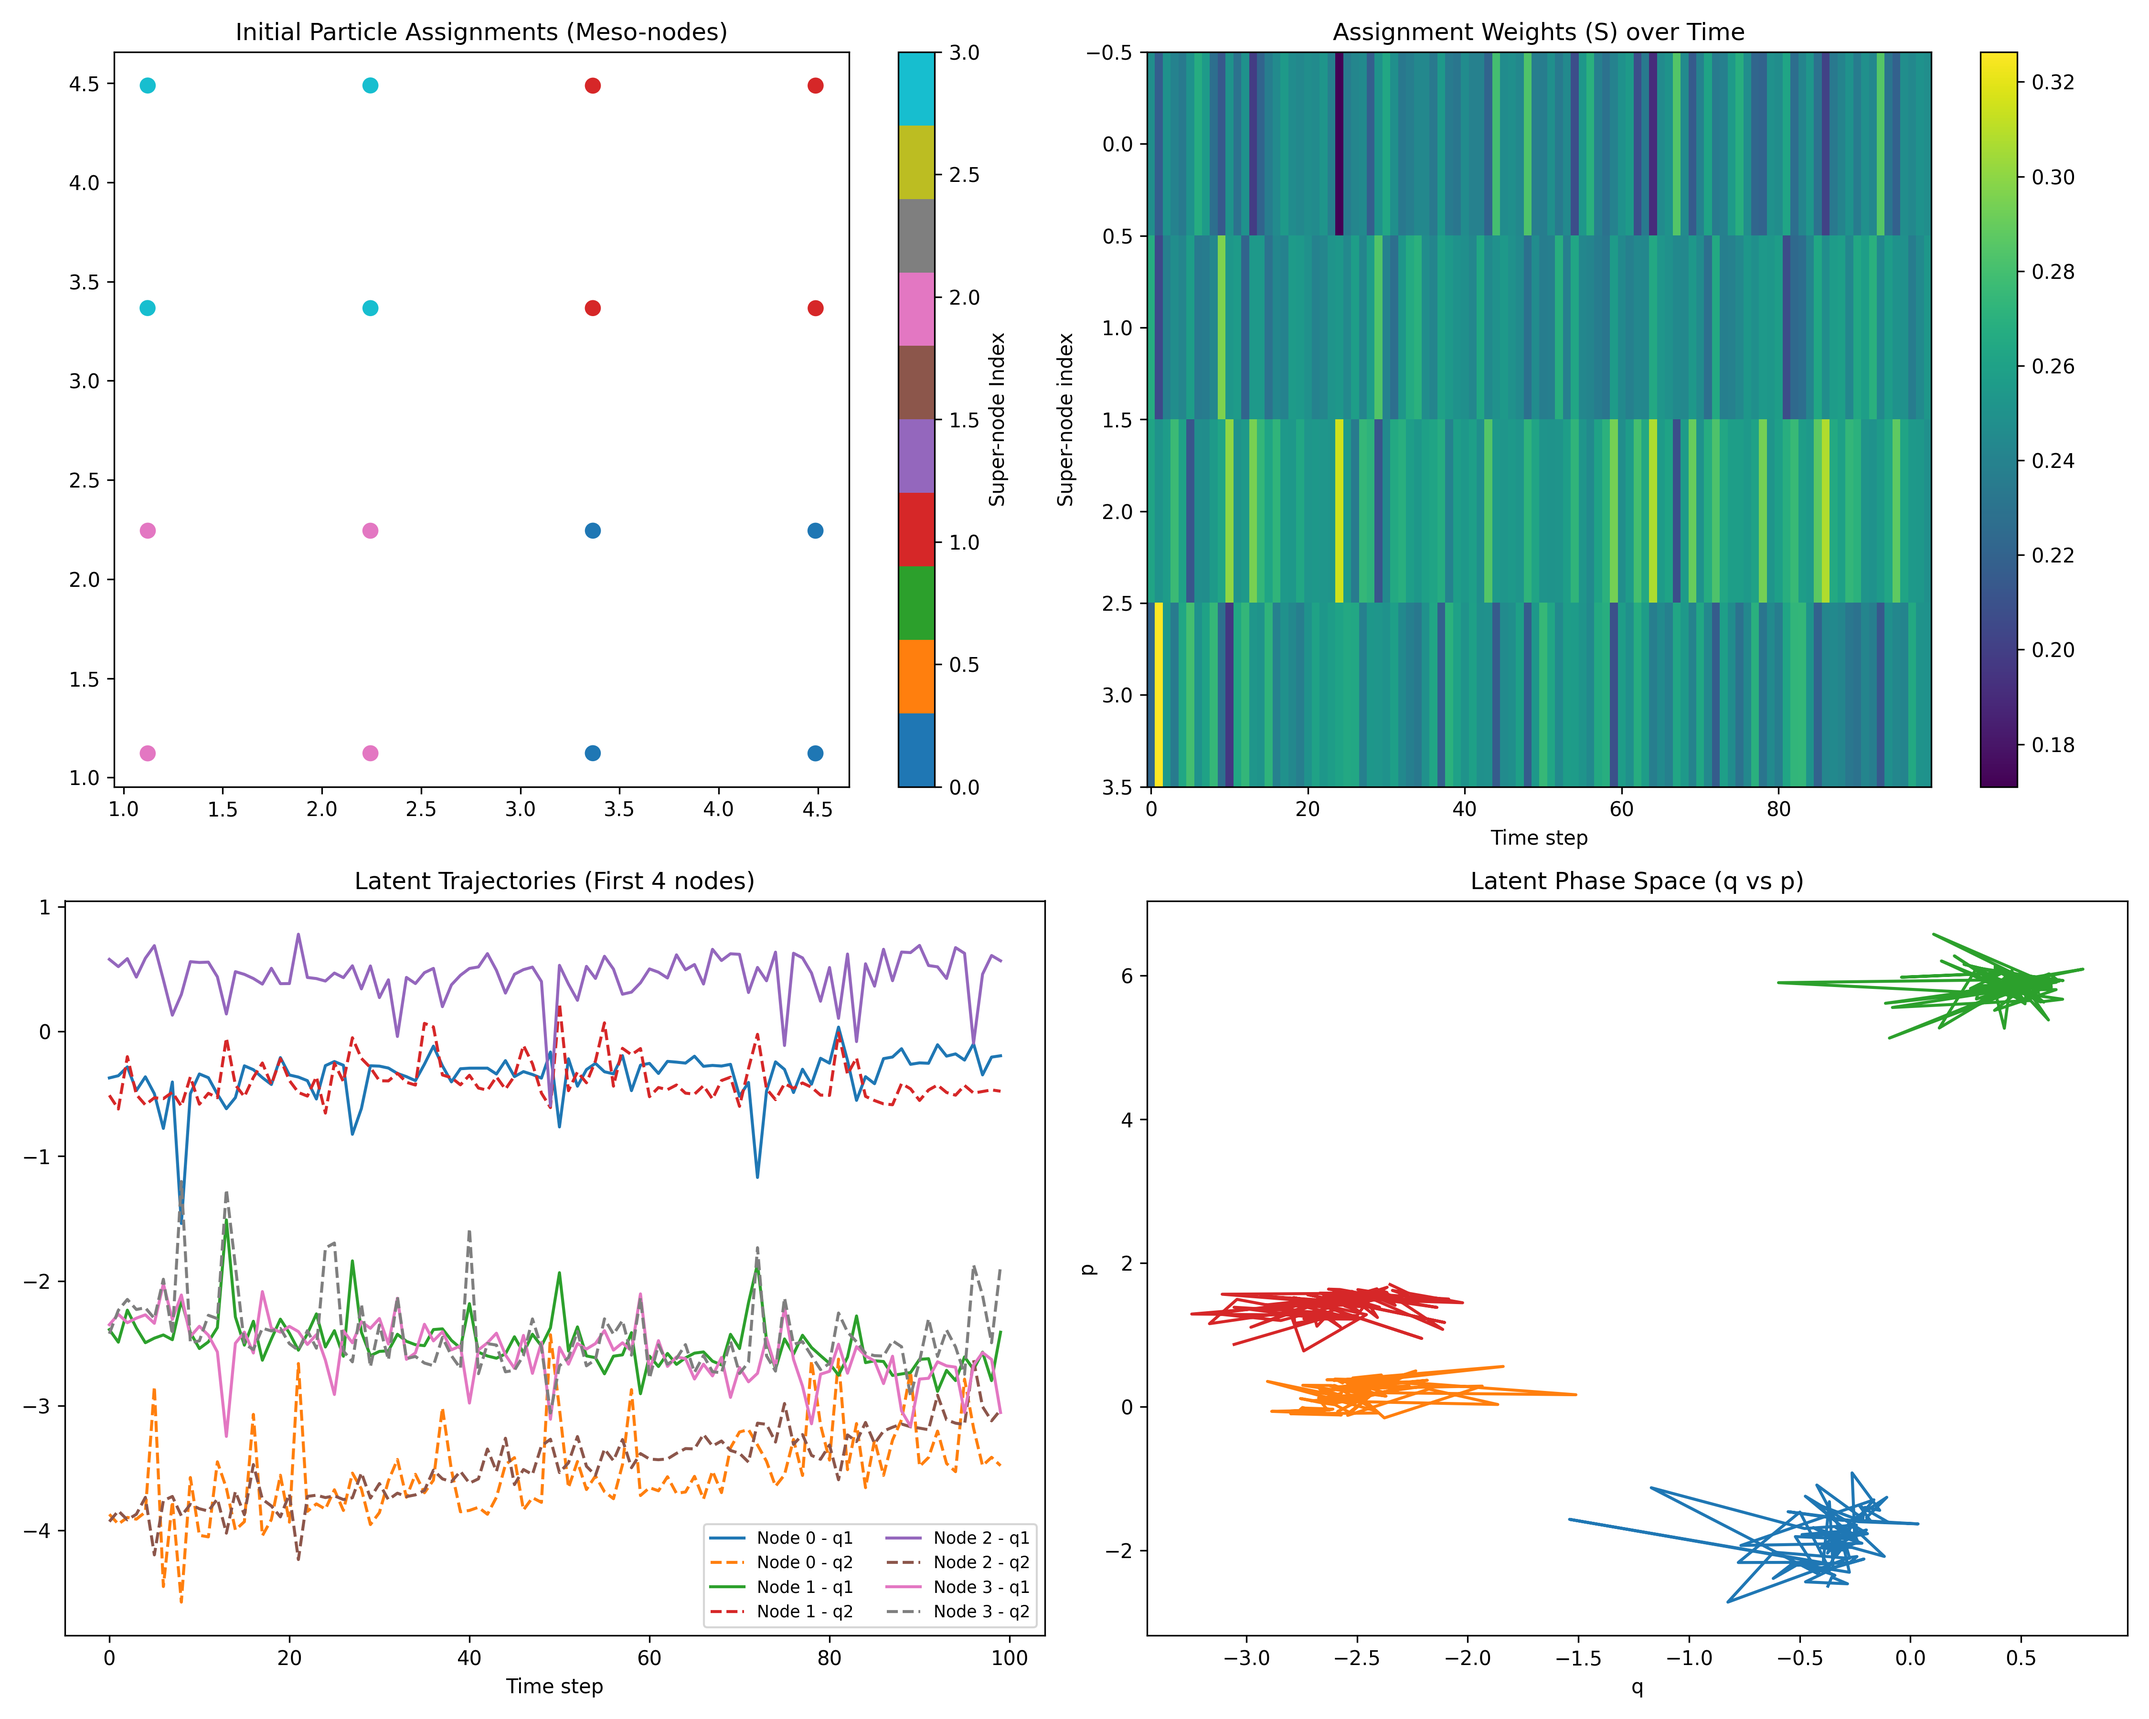
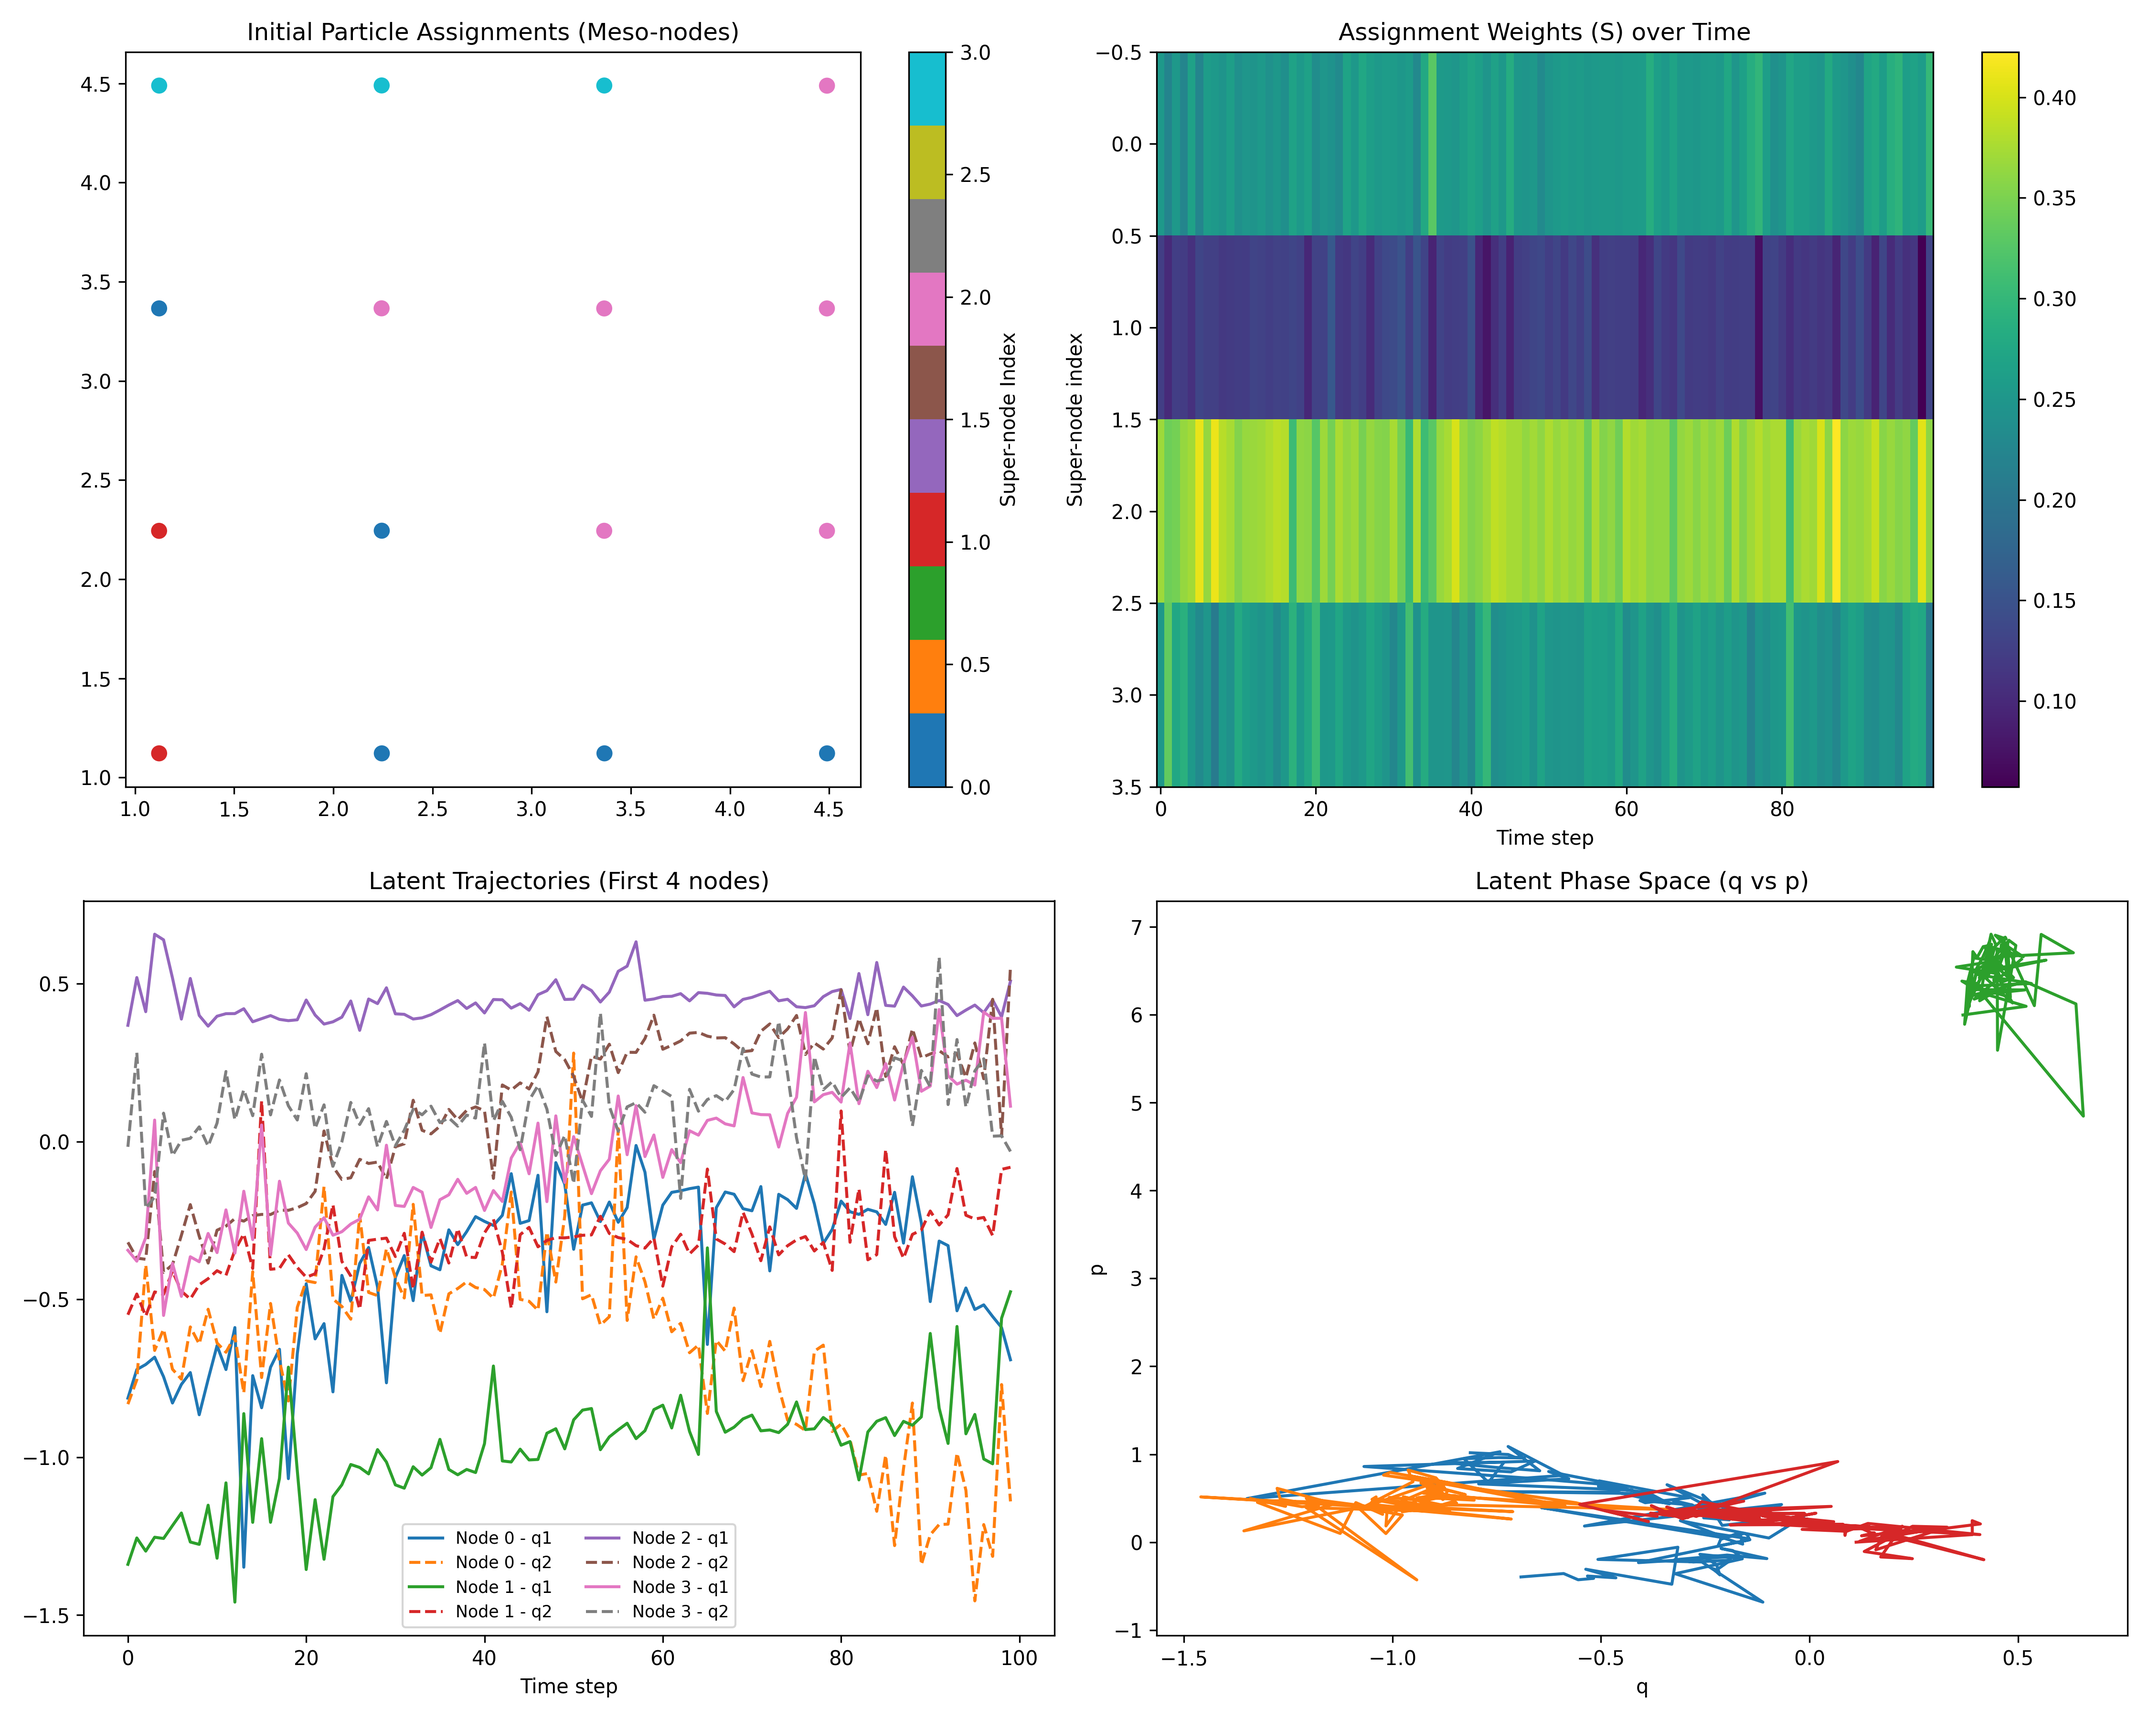
updated

diff --git a/engine.py b/engine.py
@@ -524,7 +524,8 @@ class Trainer:
 
         for t in range(0, seq_len, 2):
             batch_t = Batch.from_data_list([data_list[t]]).to(self.device)
-            z_t_target, s_t, losses_t, mu_t = self.model.encode(batch_t.x, batch_t.edge_index, batch_t.batch, tau=tau, hard=hard)
+            # Pass s_prev for assignment persistence
+            z_t_target, s_t, losses_t, mu_t = self.model.encode(batch_t.x, batch_t.edge_index, batch_t.batch, tau=tau, hard=hard, prev_assignments=s_prev)
             z_t_target = torch.nan_to_num(z_t_target)
             
             # Use normalized targets for stability
@@ -550,10 +551,10 @@ class Trainer:
             mu_t_norm = mu_t 
             d_align = min(self.model.encoder.latent_dim // 2 if self.model.hamiltonian else 2, 2)
             
-            # Soft-start for alignment loss: keep at 0 for first 100 epochs, then anneal in
+            # Soft-start for alignment loss: keep at 0 for first 20 epochs, then anneal in
             align_weight = 0.0
-            if epoch > 100:
-                align_weight = min(1.0, (epoch - 100) / self.align_anneal_epochs)
+            if epoch > 20:
+                align_weight = min(1.0, (epoch - 20) / self.align_anneal_epochs)
             
             # Use learnable scale in log-space for alignment
             loss_align += 2.0 * align_weight * self.criterion(z_preds[t, :, :, :d_align] * torch.exp(self.log_align_scale), mu_t_norm[:, :, :d_align])
@@ -592,7 +593,7 @@ class Trainer:
         discovery_loss += (weights['sym'] * (self.symbolic_weight - 1.0) * torch.clamp(loss_sym.to(torch.float32), 0, 100)) # Adjust sym weight
         discovery_loss += 1e-4 * torch.clamp(loss_curv.to(torch.float32), 0, 100)
         
-        loss = discovery_loss + (weights['l2'] * 1e-4 * torch.clamp(loss_l2, 0, 100) + lvars[4]) + (weights['lvr'] * 1e-4 * torch.clamp(loss_lvr, 0, 100) + lvars[5])
+        loss = discovery_loss + (weights['l2'] * 1e-4 * torch.clamp(loss_l2, 0, 100) + lvars[4]) + (weights['lvr'] * 1e-2 * torch.clamp(loss_lvr, 0, 100) + lvars[5])
         if compute_consistency: loss += (weights['cons'] * torch.clamp(loss_cons.to(torch.float32), 0, 100) + lvars[1])
         
         loss = torch.clamp(loss + 0.1 * torch.sum(lvars**2), 0, 1e4)

diff --git a/symbolic.py b/symbolic.py
@@ -188,11 +188,34 @@ class SymbolicDistiller:
         X_sel = X[:, mask]
         
         lasso = LassoCV(cv=5).fit(X_sel, y)
-        if lasso.score(X_sel, y) > 0.999:
-            return OptimizedExpressionProgram(str(sp.simplify(sum(c*sp.Symbol(f'X{np.where(mask)[0][j]}') for j, c in enumerate(lasso.coef_)) + lasso.intercept_))), mask, lasso.score(X_sel, y)
+        lasso_score = lasso.score(X_sel, y)
+        
+        # PHYSICALITY GATE: Check if Lasso found a simple identity
+        is_identity = False
+        if lasso_score > 0:
+            coeffs = np.abs(lasso.coef_)
+            if np.sum(coeffs > 1e-3) == 1 and np.max(coeffs) > 0.9:
+                is_identity = True
+        
+        if lasso_score > 0.999:
+            return OptimizedExpressionProgram(str(sp.simplify(sum(c*sp.Symbol(f'X{np.where(mask)[0][j]}') for j, c in enumerate(lasso.coef_)) + lasso.intercept_))), mask, lasso_score
             
+        # Initial GP search
         est = self._get_regressor(self.populations, self.generations).fit(X_sel, y)
-        return OptimizedExpressionProgram(str(est._program)), mask, est.score(X_sel, y)
+        score = est.score(X_sel, y)
+        program_str = str(est._program)
+        
+        # PHYSICALITY GATE: Trigger Deep Search if simple identity with low score
+        # Identifies simple Xn or -Xn or similar
+        is_gp_identity = re.match(r'^X\d+$', program_str) or re.match(r'^neg\(X\d+\)$', program_str)
+        
+        if (is_gp_identity or is_identity) and score < 0.95:
+            # print(f"Target {i}: Physicality Gate triggered. Simple identity found with score {score:.4f}. Starting Deep Search...")
+            est = self._get_regressor(self.populations * 3, self.generations * 2, parsimony=0.01).fit(X_sel, y)
+            score = est.score(X_sel, y)
+            program_str = str(est._program)
+            
+        return OptimizedExpressionProgram(program_str), mask, score
 
     def distill(self, latent_states, targets, n_super_nodes, latent_dim, box_size=None, hamiltonian=False):
         self.transformer = FeatureTransformer(n_super_nodes, latent_dim, box_size=box_size)

diff --git a/model.py b/model.py
@@ -258,7 +258,7 @@ class GNNEncoder(nn.Module):
                 if m.bias is not None:
                     nn.init.zeros_(m.bias)
 
-    def forward(self, x, edge_index, batch, tau=1.0, hard=False):
+    def forward(self, x, edge_index, batch, tau=1.0, hard=False, prev_assignments=None):
         # Store initial positions for spatial pooling
         pos = x[:, :2]
         vel = x[:, 2:4] # Assume [pos_x, pos_y, vel_x, vel_y]
@@ -267,7 +267,7 @@ class GNNEncoder(nn.Module):
         x = self.ln2(torch.relu(self.gnn2(x, pos, vel, edge_index)))
 
         # Pool to K super-nodes preserving spatial features
-        pooled, s, assign_losses, mu = self.pooling(x, batch, pos=pos, tau=tau, hard=hard) # [batch_size, n_super_nodes, hidden_dim], [N, n_super_nodes], mu: [B, K, 2]
+        pooled, s, assign_losses, mu = self.pooling(x, batch, pos=pos, tau=tau, hard=hard, prev_assignments=prev_assignments) # [batch_size, n_super_nodes, hidden_dim], [N, n_super_nodes], mu: [B, K, 2]
         latent = self.output_layer(pooled) # [batch_size, n_super_nodes, latent_dim]
 
         # Apply learnable gain to prevent vanishing latents
@@ -555,8 +555,8 @@ class DiscoveryEngineModel(nn.Module):
         mi_est = torch.mean(joint) - torch.log(torch.mean(torch.exp(marginal)) + 1e-9)
         return -mi_est
 
-    def encode(self, x, edge_index, batch, tau=1.0, hard=False):
-        return self.encoder(x, edge_index, batch, tau=tau, hard=hard)
+    def encode(self, x, edge_index, batch, tau=1.0, hard=False, prev_assignments=None):
+        return self.encoder(x, edge_index, batch, tau=tau, hard=hard, prev_assignments=prev_assignments)
     
     def decode(self, z, s, batch, stats=None):
         return self.decoder(z, s, batch, stats=stats)

diff --git a/stable_pooling.py b/stable_pooling.py
@@ -101,6 +101,11 @@ class StableHierarchicalPooling(nn.Module):
 
         logits = self.assign_mlp(x) * self.scaling
 
+        # NEW: Assignment Persistence - bias logits by previous assignments to stabilize flickering
+        if prev_assignments is not None and prev_assignments.size(0) == x.size(0):
+            # persistence_gain = 0.5 to strongly favor previous identity
+            logits = logits + 0.5 * prev_assignments.detach()
+
         # Apply active_mask to logits (soft mask to allow for revival)
         # Use detach() to prevent inplace modification errors during backward pass
         mask = self.active_mask.detach().unsqueeze(0)
@@ -159,7 +164,12 @@ class StableHierarchicalPooling(nn.Module):
                 self.active_mask[forced_indices] = 1.0
 
         entropy = -torch.mean(torch.sum(s * torch.log(s + 1e-9), dim=1))
-        diversity_loss = torch.sum(avg_s * torch.log(avg_s + 1e-9))
+        
+        # STABILITY FIX: Change diversity_loss from raw entropy to KL(Uniform || avg_s)
+        # This makes the loss positive-definite and prevents the "negative divergence" trap.
+        uniform_p = torch.full_like(avg_s, 1.0 / self.n_super_nodes)
+        diversity_loss = torch.sum(uniform_p * torch.log(uniform_p / (avg_s + 1e-9)))
+        
         pruning_loss = torch.mean(torch.abs(avg_s * (1 - self.active_mask))) # Penalize usage of "inactive" nodes
 
         # Sparsity loss to encourage finding the minimal scale

diff --git a/unified_train.py b/unified_train.py
@@ -19,7 +19,7 @@ def main():
     parser = argparse.ArgumentParser(description="Unified Emergentia Training Pipeline")
     parser.add_argument('--particles', type=int, default=16)
     parser.add_argument('--super_nodes', type=int, default=4)
-    parser.add_argument('--epochs', type=int, default=1000)
+    parser.add_argument('--epochs', type=int, default=500)
     parser.add_argument('--steps', type=int, default=500)
     parser.add_argument('--lr', type=float, default=5e-4)
     parser.add_argument('--sim', type=str, default='spring', choices=['spring', 'lj'])
